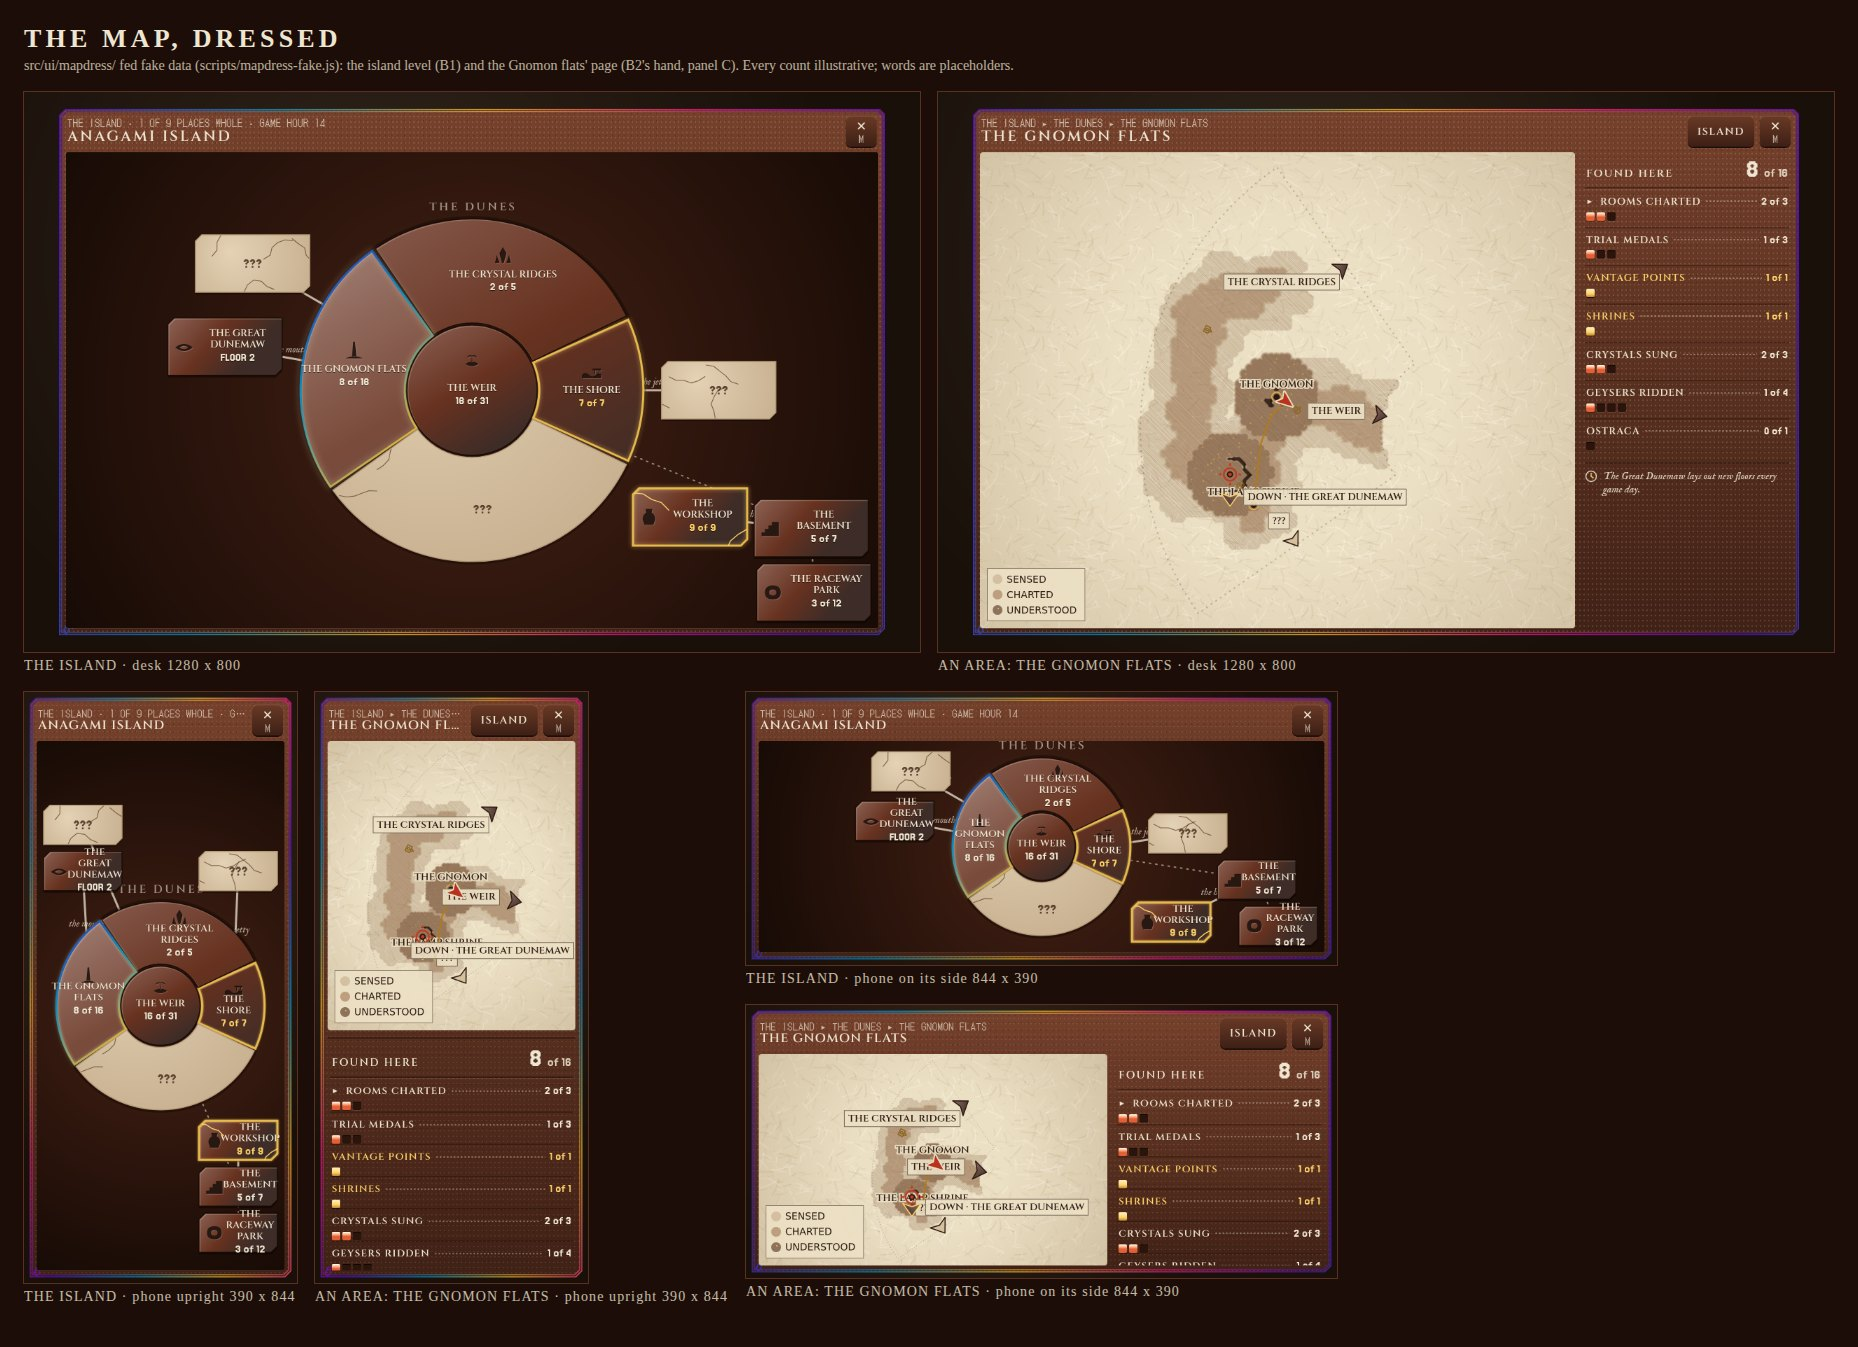
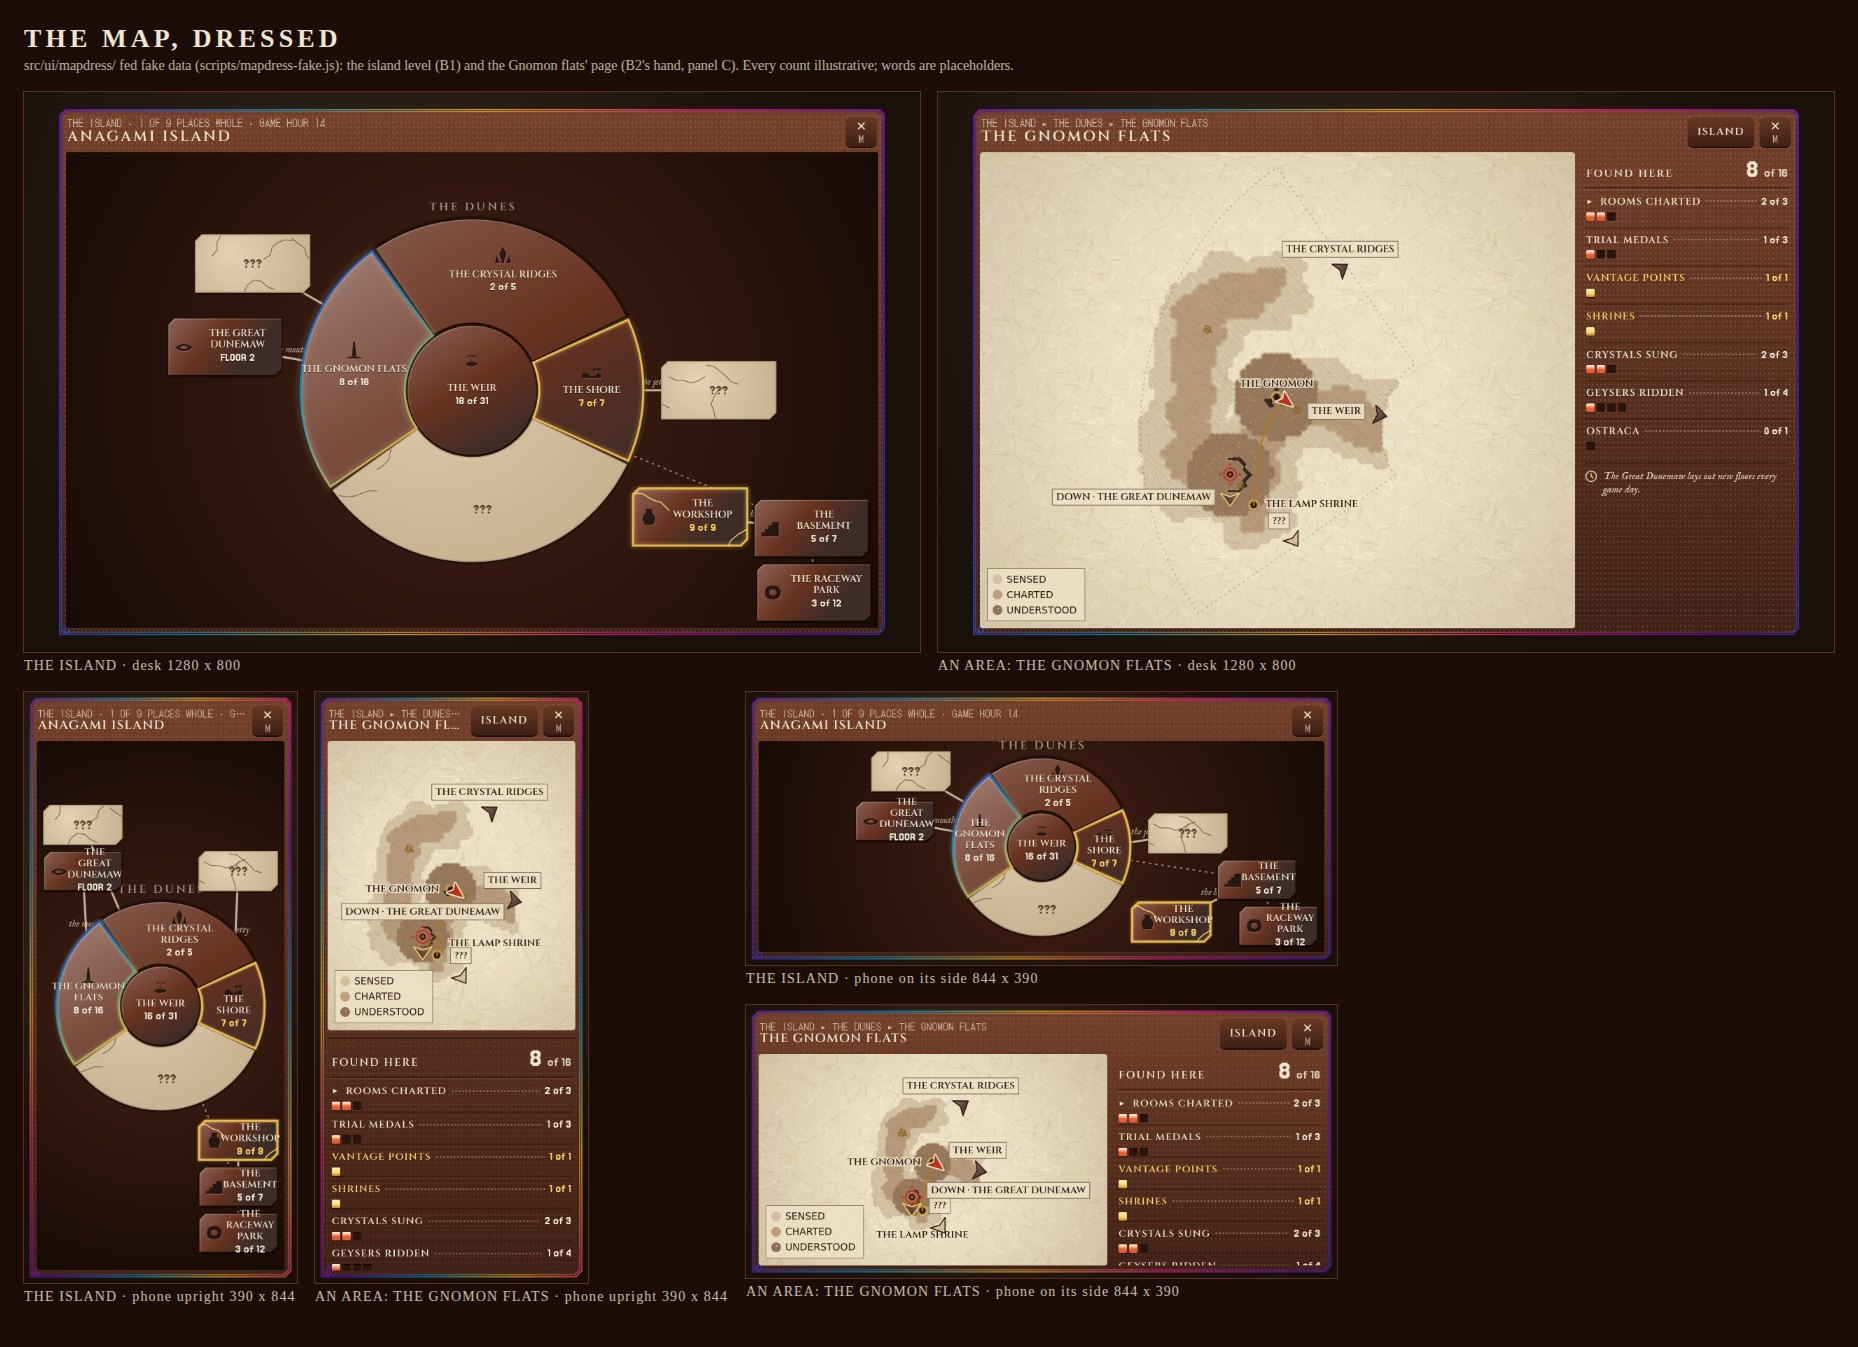
Map dress: labels placed clear of each other, the marks, the edges' chips and the key (greedy, Imhof's order)
Claude-Session: https://claude.ai/code/session_01XGT2M7FzmmweYqpDur2os6

diff --git a/src/ui/mapdress/areapage.js b/src/ui/mapdress/areapage.js
@@ -78,31 +78,66 @@ function build(page, ppm) {
   return { canvas: c, ppm, x0: b.x0, z0: b.z0 };
 }
 
-/** An edge's mark: a glazed chevron pointing out along `dir`, its neighbour's name on a paper chip beside it. */
-function edgeMark(ctx, e, sx, sy, G, words, W, H) {
+/** An edge's mark laid out (no drawing): the chevron's place and its chip's rect, so the labels can keep clear of it. */
+function edgeLayout(ctx, e, sx, sy, words, W, H, taken) {
   const s = SKETCH.chevron, x = Math.min(W - s - 4, Math.max(s + 4, sx)), y = Math.min(H - s - 4, Math.max(s + 4, sy));
+  const label = e.down ? `${words.down}${e.name && e.visited ? ` · ${e.name}` : ''}` : e.visited ? e.name : words.unknown;
+  ctx.font = `700 ${SKETCH.type}px ${FACE.name}`;
+  const t = String(label).toUpperCase(), tw = ctx.measureText(t).width + 12, th = SKETCH.type + 10;
+  const ox = Math.cos(e.dir || 0), oy = Math.sin(e.dir || 0);
+  // the chip inside the outline, behind the chevron; a way down's beside it
+  let lx = x - ox * (s + 6 + tw / 2), ly = y - oy * (s + 6 + th / 2);
+  if (e.down) { lx = x + s + 6 + tw / 2; ly = y; }
+  lx = Math.min(W - tw / 2 - 2, Math.max(tw / 2 + 2, lx)); ly = Math.min(H - th / 2 - 2, Math.max(th / 2 + 2, ly));
+  taken.push([x - s, y - s, x + s, y + s]);
+  [lx, ly] = placeLabel(taken, x, y, tw, th, W, H, s + 4, [lx - x, ly - y]);
+  return { e, x, y, s, t, lx, ly, tw, th };
+}
+
+/** An edge's mark: a glazed chevron pointing out along `dir`, its neighbour's name on a paper chip beside it. */
+function edgeMark(ctx, L, G) {
+  const { e, x, y, s, t, lx, ly, tw, th } = L;
   ctx.save(); ctx.translate(x, y); ctx.rotate(e.dir || 0);
   const p = new Path2D(); p.moveTo(s, 0); p.lineTo(-s * 0.4, -s); p.lineTo(-s * 0.05, 0); p.lineTo(-s * 0.4, s); p.closePath();
   const gr = ctx.createLinearGradient(-s, -s, s, s); gr.addColorStop(0, tone(G.top, 0.35)); gr.addColorStop(1, tone(G.bot, 0.1));
   ctx.fillStyle = e.visited ? gr : INK.bisque; ctx.fill(p); ctx.strokeStyle = e.down ? GOLD : INK.sumi; ctx.lineWidth = 1.5; ctx.stroke(p);
   ctx.restore();
-  const label = e.down ? `${words.down}${e.name && e.visited ? ` · ${e.name}` : ''}` : e.visited ? e.name : words.unknown;
   ctx.font = `700 ${SKETCH.type}px ${FACE.name}`;
-  const t = String(label).toUpperCase(), tw = ctx.measureText(t).width + 12, th = SKETCH.type + 10;
-  const ox = Math.cos(e.dir || 0), oy = Math.sin(e.dir || 0);
-  let lx = x - ox * (s + 6 + tw / 2), ly = y - oy * (s + 6 + th / 2); // (the chip inside the outline, behind the chevron; a way down's beside it)
-  if (e.down) { lx = x + s + 6 + tw / 2; ly = y; }
-  lx = Math.min(W - tw / 2 - 2, Math.max(tw / 2 + 2, lx)); ly = Math.min(H - th / 2 - 2, Math.max(th / 2 + 2, ly));
   ctx.fillStyle = 'rgba(236,224,196,.92)'; ctx.strokeStyle = 'rgba(42,24,16,.6)'; ctx.lineWidth = 1;
   ctx.fillRect(lx - tw / 2, ly - th / 2, tw, th); ctx.strokeRect(lx - tw / 2 + 0.5, ly - th / 2 + 0.5, tw - 1, th - 1);
   ctx.fillStyle = INK.sumi; ctx.textAlign = 'center'; ctx.textBaseline = 'middle'; ctx.fillText(t, lx, ly + 1);
 }
 
+/** Greedy label placement (the cartographer's rule, Imhof's: above first, then below, right, left, then further out): the first
+ *  candidate centre whose rect is on the page and clear of every rect taken; none clear, the least overlapped. Takes its rect. */
+function placeLabel(taken, x, y, w, h, W, H, gap = 10, first = null) {
+  const cands = [...(first ? [first] : []), [0, -gap - h / 2], [0, gap + h / 2], [gap + 4 + w / 2, 0], [-gap - 4 - w / 2, 0],
+    [0, -gap - h * 1.6], [0, gap + h * 1.6], [gap + 4 + w / 2, -h], [-gap - 4 - w / 2, -h], [gap + 4 + w / 2, h], [-gap - 4 - w / 2, h]];
+  let best = null, bestHit = Infinity;
+  for (const [dx, dy] of cands) {
+    const cx = x + dx, cy = y + dy, r = [cx - w / 2, cy - h / 2, cx + w / 2, cy + h / 2];
+    if (r[0] < 2 || r[1] < 2 || r[2] > W - 2 || r[3] > H - 2) continue;
+    let hit = 0;
+    for (const q of taken) hit += Math.max(0, Math.min(r[2], q[2]) - Math.max(r[0], q[0])) * Math.max(0, Math.min(r[3], q[3]) - Math.max(r[1], q[1]));
+    if (hit < bestHit) { best = [cx, cy, r]; bestHit = hit; if (!hit) break; }
+  }
+  if (!best) best = [x, y - gap - h / 2, [x - w / 2, y - gap - h, x + w / 2, y - gap]];
+  taken.push(best[2]);
+  return best;
+}
+
+const KEY_ROWS = [['sensed', `rgba(${INK.sepia},.22)`], ['charted', `rgba(${INK.sepia},.45)`], ['understood', `rgba(${INK.deep},.6)`]];
+
+/** The key's rect [x0, y0, x1, y1], so the labels keep clear of it. */
+function keyRect(ctx, H, words) {
+  ctx.font = `400 ${SKETCH.type}px ${FACE.ui}`;
+  const w = 26 + Math.max(...KEY_ROWS.map(([k]) => ctx.measureText(words[k]).width)) + 14, h = KEY_ROWS.length * 22 + 10;
+  return [10, H - h - 10, 10 + w, H - 10];
+}
+
 /** The tiers' key, in the sketch's lower left corner (the god hand, and the first opening). */
 function key(ctx, H, words) {
-  const rows = [['sensed', `rgba(${INK.sepia},.22)`], ['charted', `rgba(${INK.sepia},.45)`], ['understood', `rgba(${INK.deep},.6)`]];
-  ctx.font = `400 ${SKETCH.type}px ${FACE.ui}`;
-  const w = 26 + Math.max(...rows.map(([k]) => ctx.measureText(words[k]).width)) + 14, h = rows.length * 22 + 10, x = 10, y = H - h - 10;
+  const rows = KEY_ROWS, [x, y, x1, y1] = keyRect(ctx, H, words), w = x1 - x, h = y1 - y;
   ctx.fillStyle = 'rgba(236,224,196,.9)'; ctx.fillRect(x, y, w, h); ctx.strokeStyle = 'rgba(42,24,16,.5)'; ctx.strokeRect(x + 0.5, y + 0.5, w - 1, h - 1);
   rows.forEach(([k, c], i) => {
     const yy = y + 8 + i * 22; ctx.fillStyle = c; ctx.beginPath(); ctx.arc(x + 15, yy + 8, 7, 0, Math.PI * 2); ctx.fill();
@@ -131,19 +166,30 @@ export function areaPage(ctx, page, view) {
     ctx.imageSmoothingEnabled = true;
     ctx.drawImage(cache.canvas, sx(cache.x0), sy(cache.z0), cache.canvas.width / cache.ppm * V.scale, cache.canvas.height / cache.ppm * V.scale);
   }
-  // the tracks' names
-  ctx.font = `700 ${SKETCH.type}px ${FACE.name}`; ctx.textAlign = 'center'; ctx.textBaseline = 'bottom';
-  for (const T of page.tracks || []) if (T.pts?.length) { const q = T.pts[0]; ctx.fillStyle = INK.sumi; ctx.fillText(String(T.name).toUpperCase(), sx(q.x), sy(q.z) - 8); }
-  // the places: an ink dot; named once charted
+  // what the labels keep clear of: you, the waypoint, each edge's chevron and chip, every place's dot
+  const taken = [], box = (x, y, r) => taken.push([x - r, y - r, x + r, y + r]);
+  const Y = page.you, wp = page.waypoint;
+  if (Y) box(sx(Y.x), sy(Y.z), 14);
+  if (wp) box(sx(wp.x), sy(wp.z), 17);
+  for (const p of page.places || []) box(sx(p.x), sy(p.z), 8);
+  if (page.godhand || page.key) taken.push(keyRect(ctx, H, words));
+  const edges = (page.edges || []).map((e) => edgeLayout(ctx, e, sx(e.x), sy(e.z), words, W, H, taken));
+  ctx.font = `700 ${SKETCH.type}px ${FACE.name}`; ctx.textAlign = 'center'; ctx.textBaseline = 'middle';
+  const th0 = SKETCH.type + 2, label = (t, x, y, halo) => {
+    const [lx, ly] = placeLabel(taken, x, y, ctx.measureText(t).width + 6, th0, W, H);
+    if (halo) { ctx.lineWidth = 4; ctx.strokeStyle = 'rgba(236,224,196,.9)'; ctx.lineJoin = 'round'; ctx.strokeText(t, lx, ly); }
+    ctx.fillStyle = INK.sumi; ctx.fillText(t, lx, ly);
+  };
+  // the places: an ink dot; named once charted (labels placed before the tracks' names, which are fewer and longer)
   for (const p of page.places || []) {
     const x = sx(p.x), y = sy(p.z);
     ctx.beginPath(); ctx.arc(x, y, 4.5, 0, Math.PI * 2); ctx.fillStyle = INK.sumi; ctx.fill();
     if (!p.charted) continue;
     ctx.strokeStyle = INK.fleck; ctx.lineWidth = 1.5; ctx.beginPath(); ctx.arc(x, y, 7, 0, Math.PI * 2); ctx.stroke();
-    ctx.font = `700 ${SKETCH.type}px ${FACE.name}`; ctx.textAlign = 'center'; ctx.textBaseline = 'bottom';
-    ctx.lineWidth = 4; ctx.strokeStyle = 'rgba(236,224,196,.9)'; ctx.lineJoin = 'round';
-    const t = String(p.name).toUpperCase(); ctx.strokeText(t, x, y - 10); ctx.fillStyle = INK.sumi; ctx.fillText(t, x, y - 10);
   }
+  for (const p of page.places || []) if (p.charted) label(String(p.name).toUpperCase(), sx(p.x), sy(p.z), true);
+  // the tracks' names
+  for (const T of page.tracks || []) if (T.pts?.length) { const q = T.pts[0]; label(String(T.name).toUpperCase(), sx(q.x), sy(q.z), true); }
   // your plates: small brass frames, turned the way the lens looked
   for (const p of page.plates || []) {
     ctx.save(); ctx.translate(sx(p.x), sy(p.z)); ctx.rotate(Math.PI - (p.yaw || 0)); ctx.globalAlpha = 0.55 + 0.15 * Math.min(3, p.stars || 0);
@@ -157,7 +203,6 @@ export function areaPage(ctx, page, view) {
     ctx.beginPath(); th.pts.forEach((q, i) => (i ? ctx.lineTo(sx(q.x), sy(q.z)) : ctx.moveTo(sx(q.x), sy(q.z)))); ctx.stroke(); ctx.restore();
   }
   // the Sight's waypoint: a vermilion ring with four ticks
-  const wp = page.waypoint;
   if (wp) {
     const x = sx(wp.x), y = sy(wp.z); ctx.strokeStyle = INK.vermilion; ctx.lineWidth = 2.5;
     ctx.beginPath(); ctx.arc(x, y, 9, 0, Math.PI * 2); ctx.stroke();
@@ -165,9 +210,8 @@ export function areaPage(ctx, page, view) {
     ctx.fillStyle = INK.vermilion; ctx.beginPath(); ctx.arc(x, y, 2.5, 0, Math.PI * 2); ctx.fill();
   }
   // the edges
-  for (const e of page.edges || []) edgeMark(ctx, e, sx(e.x), sy(e.z), G, words, W, H);
+  for (const L of edges) edgeMark(ctx, L, G);
   // the god hand's tether, and you
-  const Y = page.you;
   if (page.godhand) { ctx.save(); ctx.strokeStyle = 'rgba(176,122,30,.75)'; ctx.lineWidth = 1.5; ctx.setLineDash([6, 6]); ctx.beginPath(); ctx.arc(sx(page.godhand.x), sy(page.godhand.z), page.godhand.r * V.scale, 0, Math.PI * 2); ctx.stroke(); ctx.restore(); }
   if (Y) {
     ctx.save(); ctx.translate(sx(Y.x), sy(Y.z)); ctx.rotate(Math.PI - (Y.yaw || 0));
